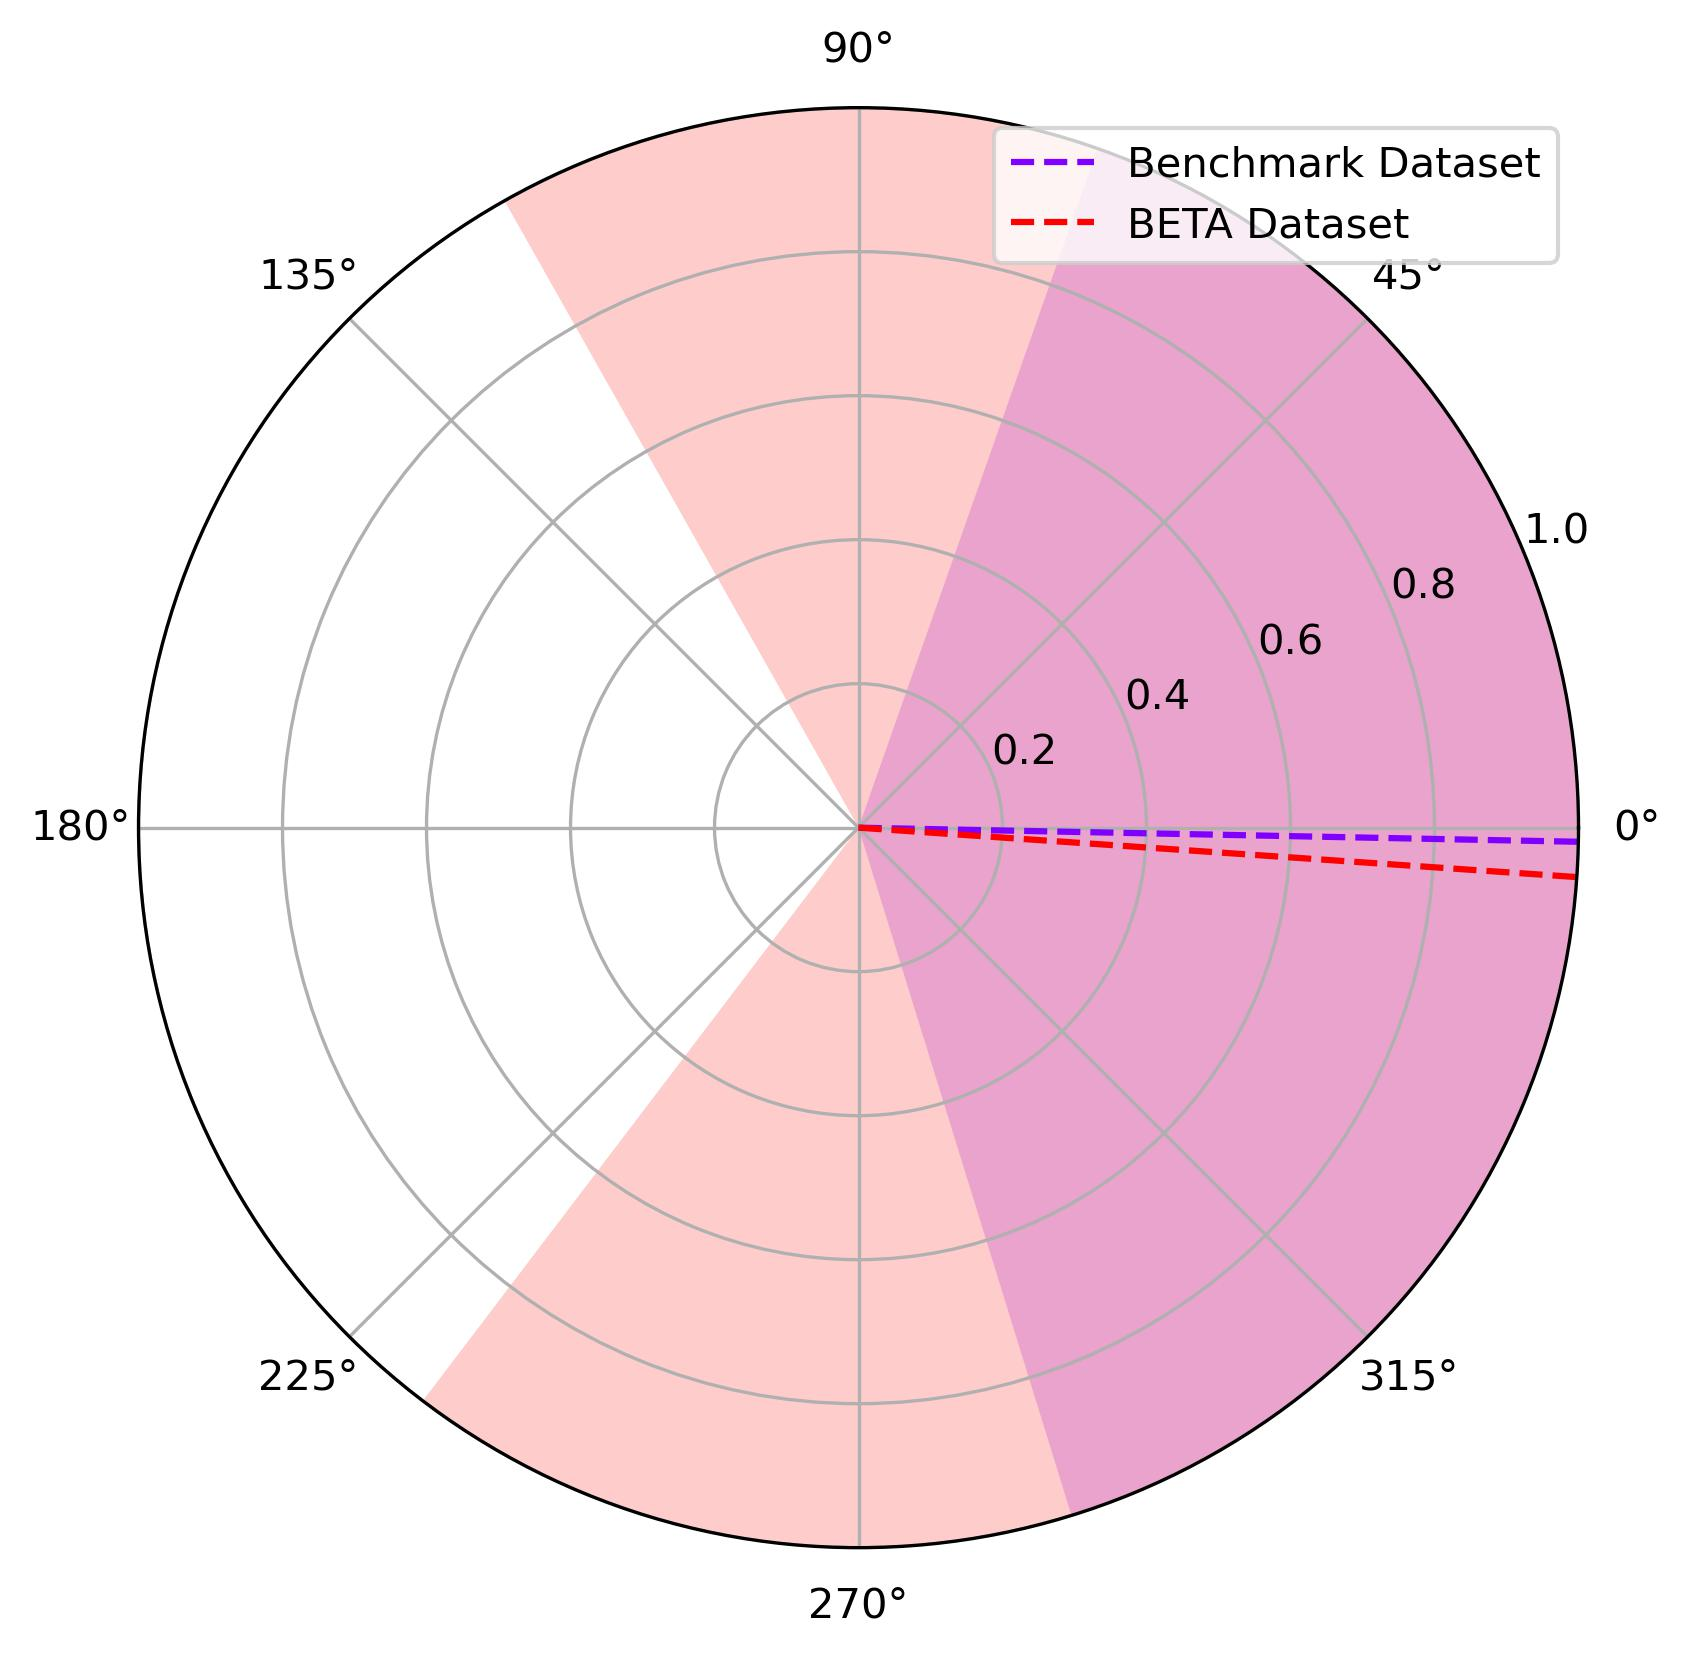
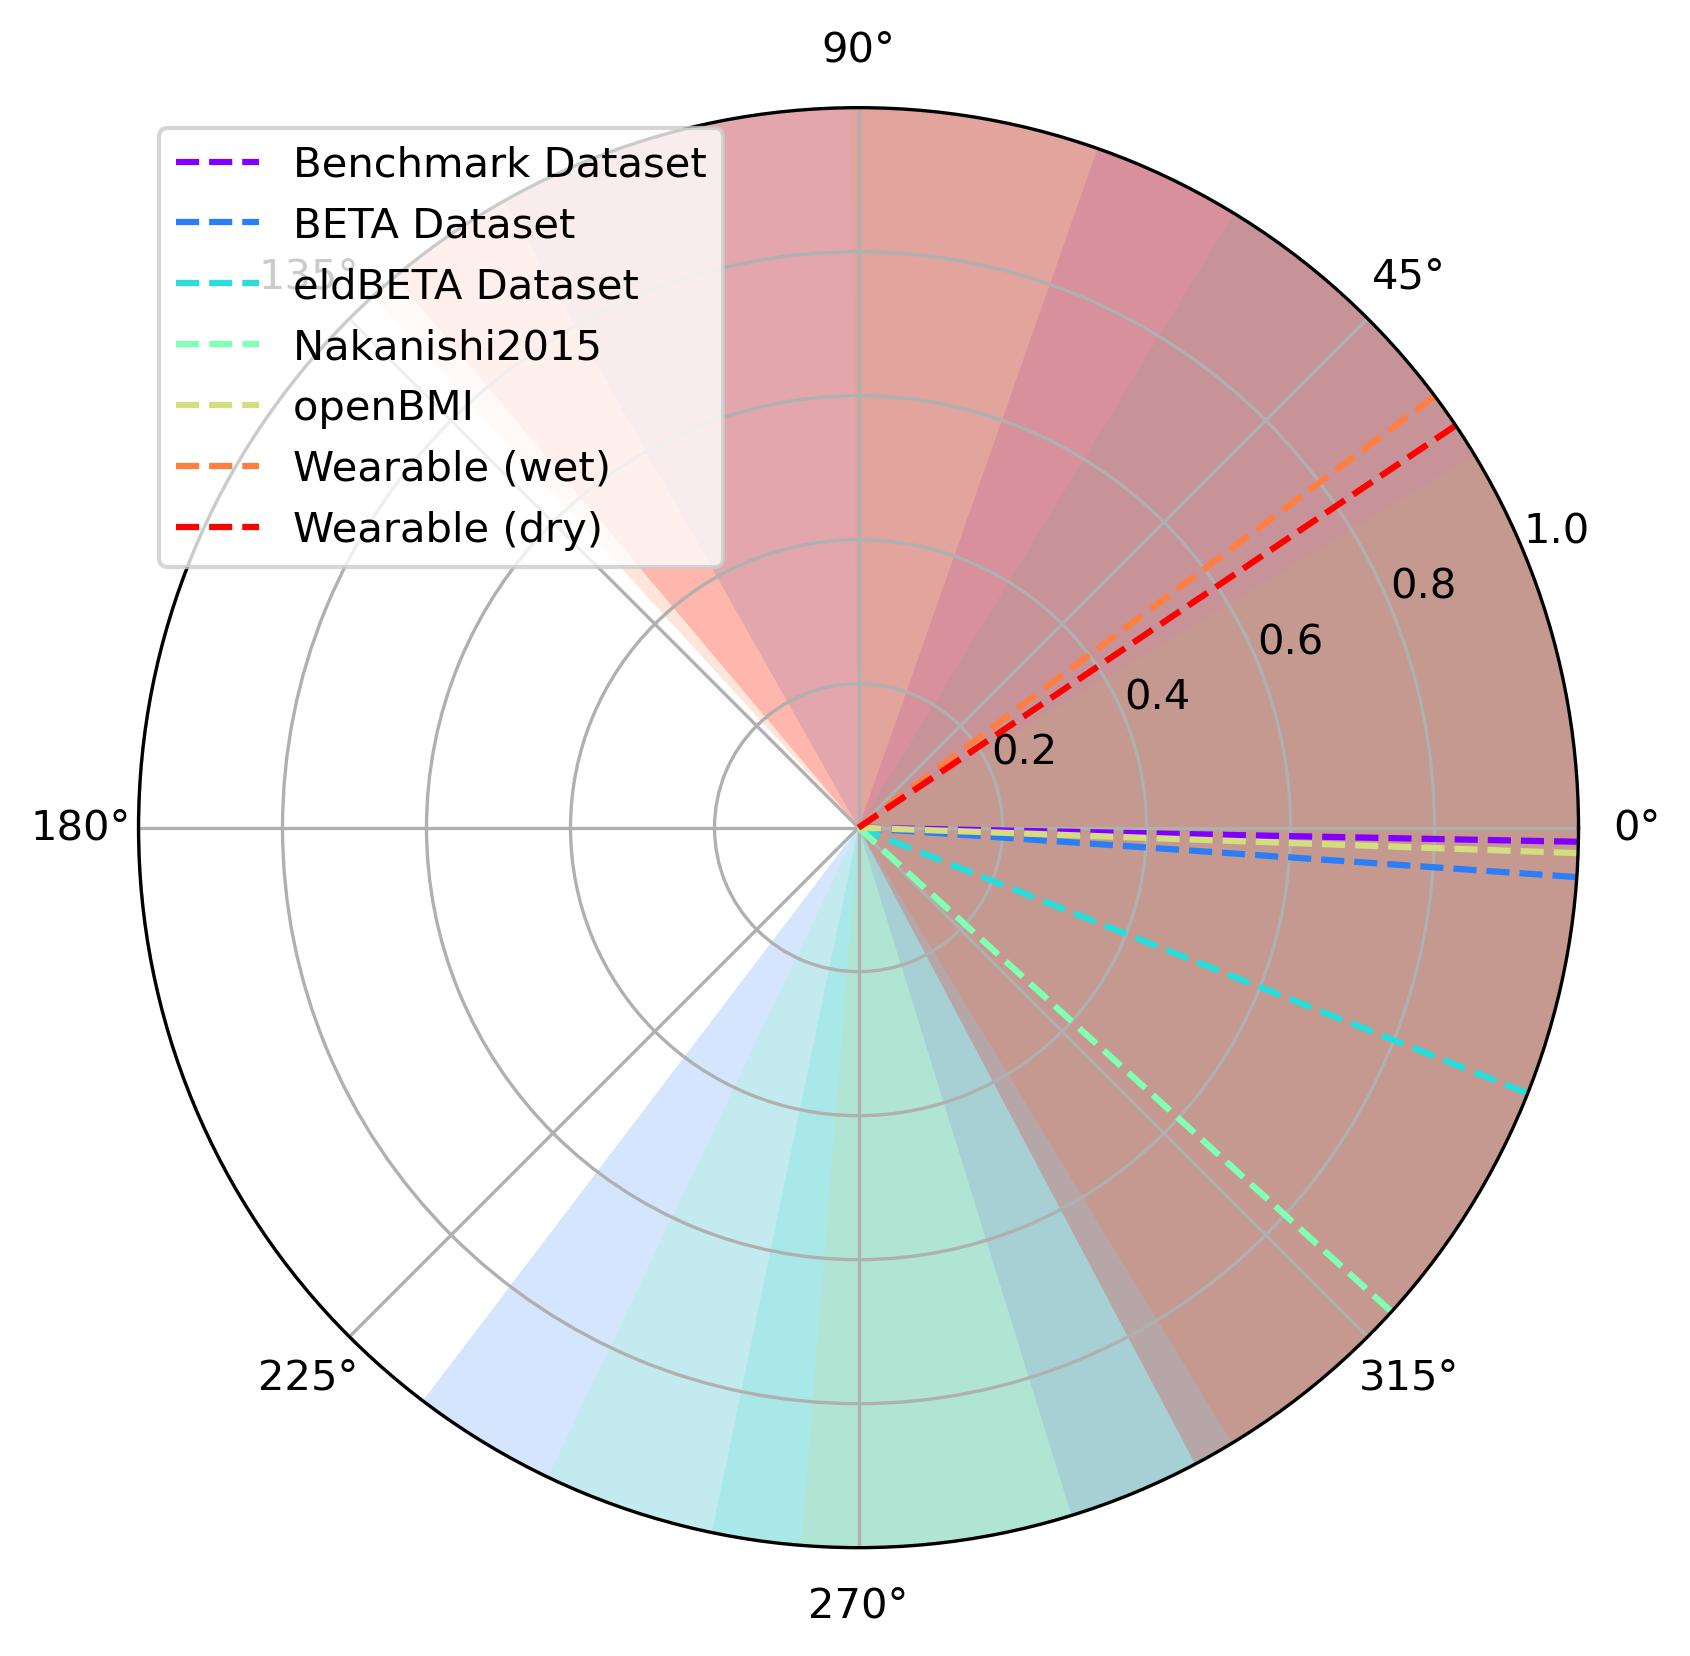
Update phase results

diff --git a/demo/plot_phase.py b/demo/plot_phase.py
@@ -17,12 +17,9 @@ from SSVEPAnalysisToolbox.evaluator import (
 from SSVEPAnalysisToolbox.utils.io import savedata
 from SSVEPAnalysisToolbox.utils.algsupport import nextpow2
 
-import numpy as np
-
 phase_list = []
 legend = []
 dataset_no = 0
-harmonic_num = 5
 sig_len = 1
 
 # Benchmark dataset
@@ -113,7 +110,7 @@ phase_list.append(snr[:,:,:,suggested_ch()])
 legend.append(dataset.ID)
 dataset_no += 1
 
-# dataset = WearableDataset_dry(path = 'Wearable')
+dataset = WearableDataset_dry(path = 'Wearable')
 dataset.regist_preprocess(preprocess)
 dataset.regist_filterbank(lambda dataself, X: filterbank(dataself, X, 5))
 print("{:s}: ".format(dataset.ID))
@@ -132,11 +129,6 @@ data_file = 'res/phase.mat'
 savedata(data_file, data, 'mat')
 
 # plot histogram of SNR
-# phase_list_plot = []
-# for phase in phase_list:
-#     phase_mean = np.mean(phase, axis = 1)
-#     phase_mean = np.mean(phase_mean, axis = 1)
-#     phase_list_plot.append(phase_mean)
 color = gen_colors(dataset_no)
 fig, ax = polar_phase_shadow(phase_list,
                             color = color,
